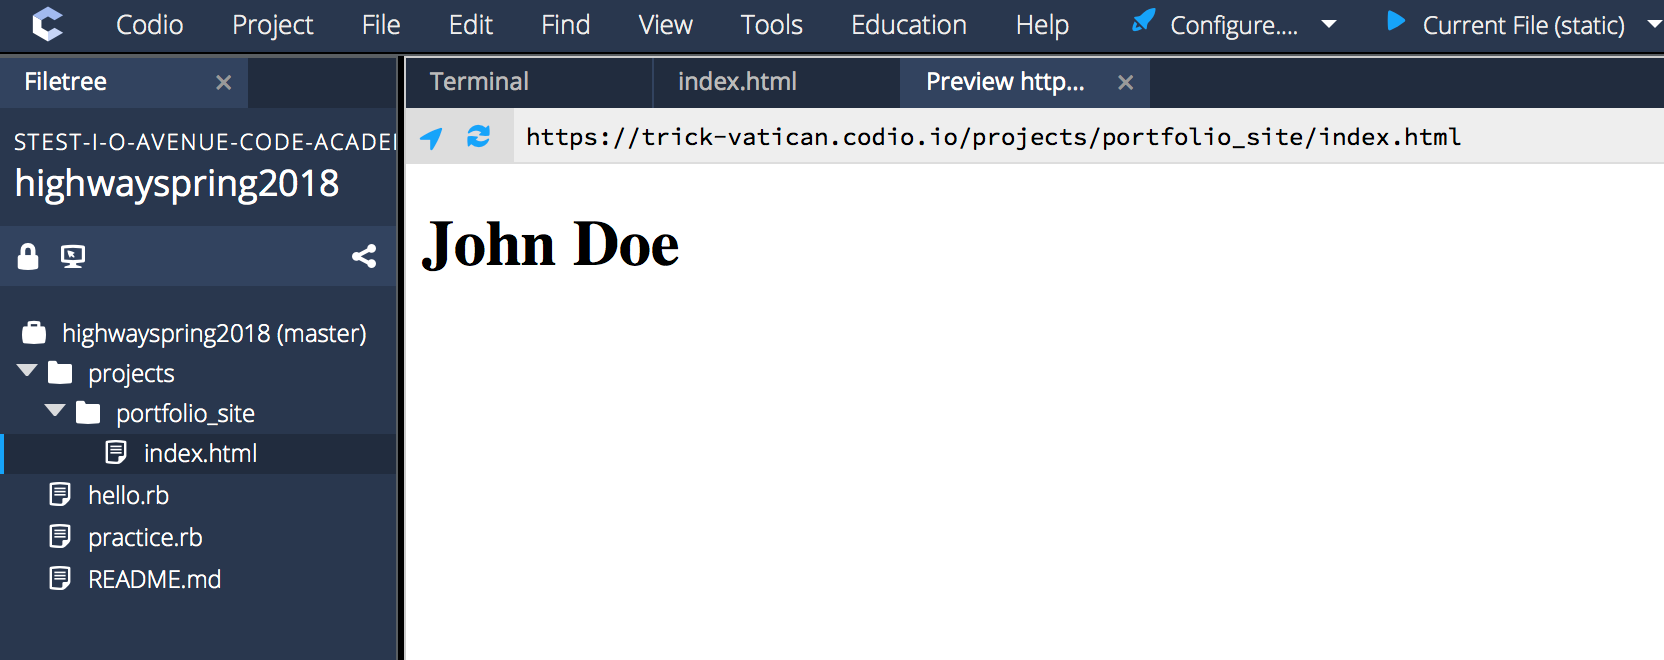
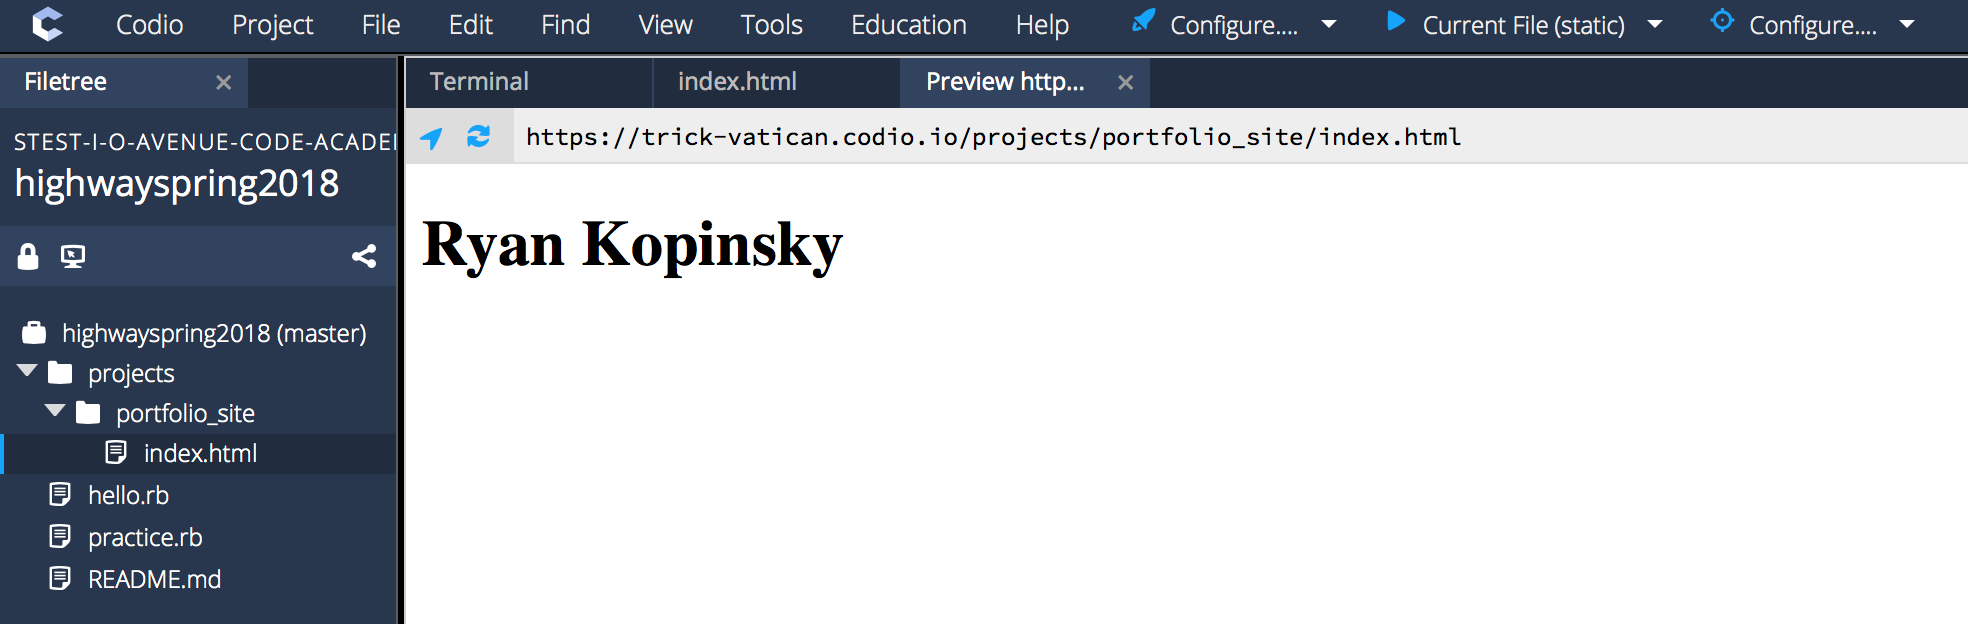
Added headshot to page

Changed region(s): [[0.0, 0.0, 1.0, 1.0], [0.0, 0.3654, 0.0625, 0.4263]]

diff --git a/portfolio_site/phase_1_tutorial/README.md b/portfolio_site/phase_1_tutorial/README.md
@@ -57,7 +57,9 @@ In order to test this HTML, go to your Codio Filetree and right-click on `index.
 
 ![hello_world_test](./images/hello_world_test.png)
 
-We are now ready to add content to our personal site. Update your site title to display your first and last name: `<title>John Doe</title>`. Also add an `h1` tag to display your name on the page: `<h1>John Doe</h1>`. Your `index.html` should look like:
+#### Add Your Name
+
+We are now ready to add content to our personal site. Update your site title to display your first and last name: `<title>Ryan Kopinsky</title>`. Also add an `h1` tag to display your name on the page: `<h1>Ryan Kopinsky</h1>`. Your `index.html` should look like:
 
 ```html
 <!DOCTYPE html>
@@ -67,7 +69,7 @@ We are now ready to add content to our personal site. Update your site title to 
     <meta name="viewport" content="width=device-width, initial-scale=1, shrink-to-fit=no"> <!-- responsive viewport meta tag -->
 
     <!-- Update your website title -->
-    <title>John Doe</title>
+    <title>Ryan Kopinsky</title>
 
     <!-- Link Bootstrap CSS here -->
 
@@ -75,7 +77,7 @@ We are now ready to add content to our personal site. Update your site title to 
   </head>
   <body>
     <!-- Add your content here -->
-    <h1>John Doe</h1>
+    <h1>Ryan Kopinsky</h1>
 
     <!-- At the end of all your content, add Bootstrap JS here -->
   </body>
@@ -83,3 +85,74 @@ We are now ready to add content to our personal site. Update your site title to 
 ```
 
 ![added_name](./images/added_name.png)
+
+#### Add Your Headshot
+
+Let's continue adding content. As per the site requirements, we should now add a professional headshot. We can add an image by doing the following:
+1. In your `portfolio_site` folder, create a new folder called `images`: `$ mkdir images`.
+1. Upload your professional headshot (in either .PNG or .JPG format) by right-clicking on the newly-created `images` folder. Select `Upload` and use the dialog to upload your image.
+![upload_image_to_codio](./images/upload_image_to_codio.png)
+![uploaded_image_to_codio](./images/uploaded_image_to_codio.png)
+1. Use an `img` tag to place the image on the webpage: `<img src="images/professional_headshot" alt="Headshot for Ryan Kopinsky">`.
+
+Your `index.html` should look like:
+
+```html
+<!DOCTYPE html>
+<html lang="en">
+  <head>
+    <meta charset="utf-8" />
+    <meta name="viewport" content="width=device-width, initial-scale=1, shrink-to-fit=no"> <!-- responsive viewport meta tag -->
+
+    <!-- Update your website title -->
+    <title>Ryan Kopinsky</title>
+
+    <!-- Link Bootstrap CSS here -->
+
+    <!-- Link custom CSS here -->
+  </head>
+  <body>
+    <!-- Add your content here -->
+    <h1>Ryan Kopinsky</h1>
+
+    <img src="images/professional_headshot.jpg" alt="Headshot for Ryan Kopinsky">
+
+    <!-- At the end of all your content, add Bootstrap JS here -->
+  </body>
+</html>
+```
+
+![added_headshot](./images/added_headshot.png)
+
+Oops! That image is way too big (the original image is 1000px wide and 1250px high). We can constrain its size by providing a `height` and/or `width` attribute. It is important to note that you always want to maintain the image's aspect ratio (so it doesn't looked squished). Thus, when providing size constraints, provide either a value for `height` or `width`. The other value will automatically be calculated for you to maintain the image's aspect ratio: `<img src="images/professional_headshot.jpg" alt="Headshot for Ryan Kopinsky" width="300px">`.
+
+Your `index.html` should look like:
+
+```html
+<!DOCTYPE html>
+<html lang="en">
+  <head>
+    <meta charset="utf-8" />
+    <meta name="viewport" content="width=device-width, initial-scale=1, shrink-to-fit=no"> <!-- responsive viewport meta tag -->
+
+    <!-- Update your website title -->
+    <title>Ryan Kopinsky</title>
+
+    <!-- Link Bootstrap CSS here -->
+
+    <!-- Link custom CSS here -->
+  </head>
+  <body>
+    <!-- Add your content here -->
+    <h1>Ryan Kopinsky</h1>
+
+    <img src="images/professional_headshot.jpg" alt="Headshot for Ryan Kopinsky" width="300px">
+
+    <!-- At the end of all your content, add Bootstrap JS here -->
+  </body>
+</html>
+```
+
+![resized_headshot](./images/resized_headshot.png)
+
+Much better!
